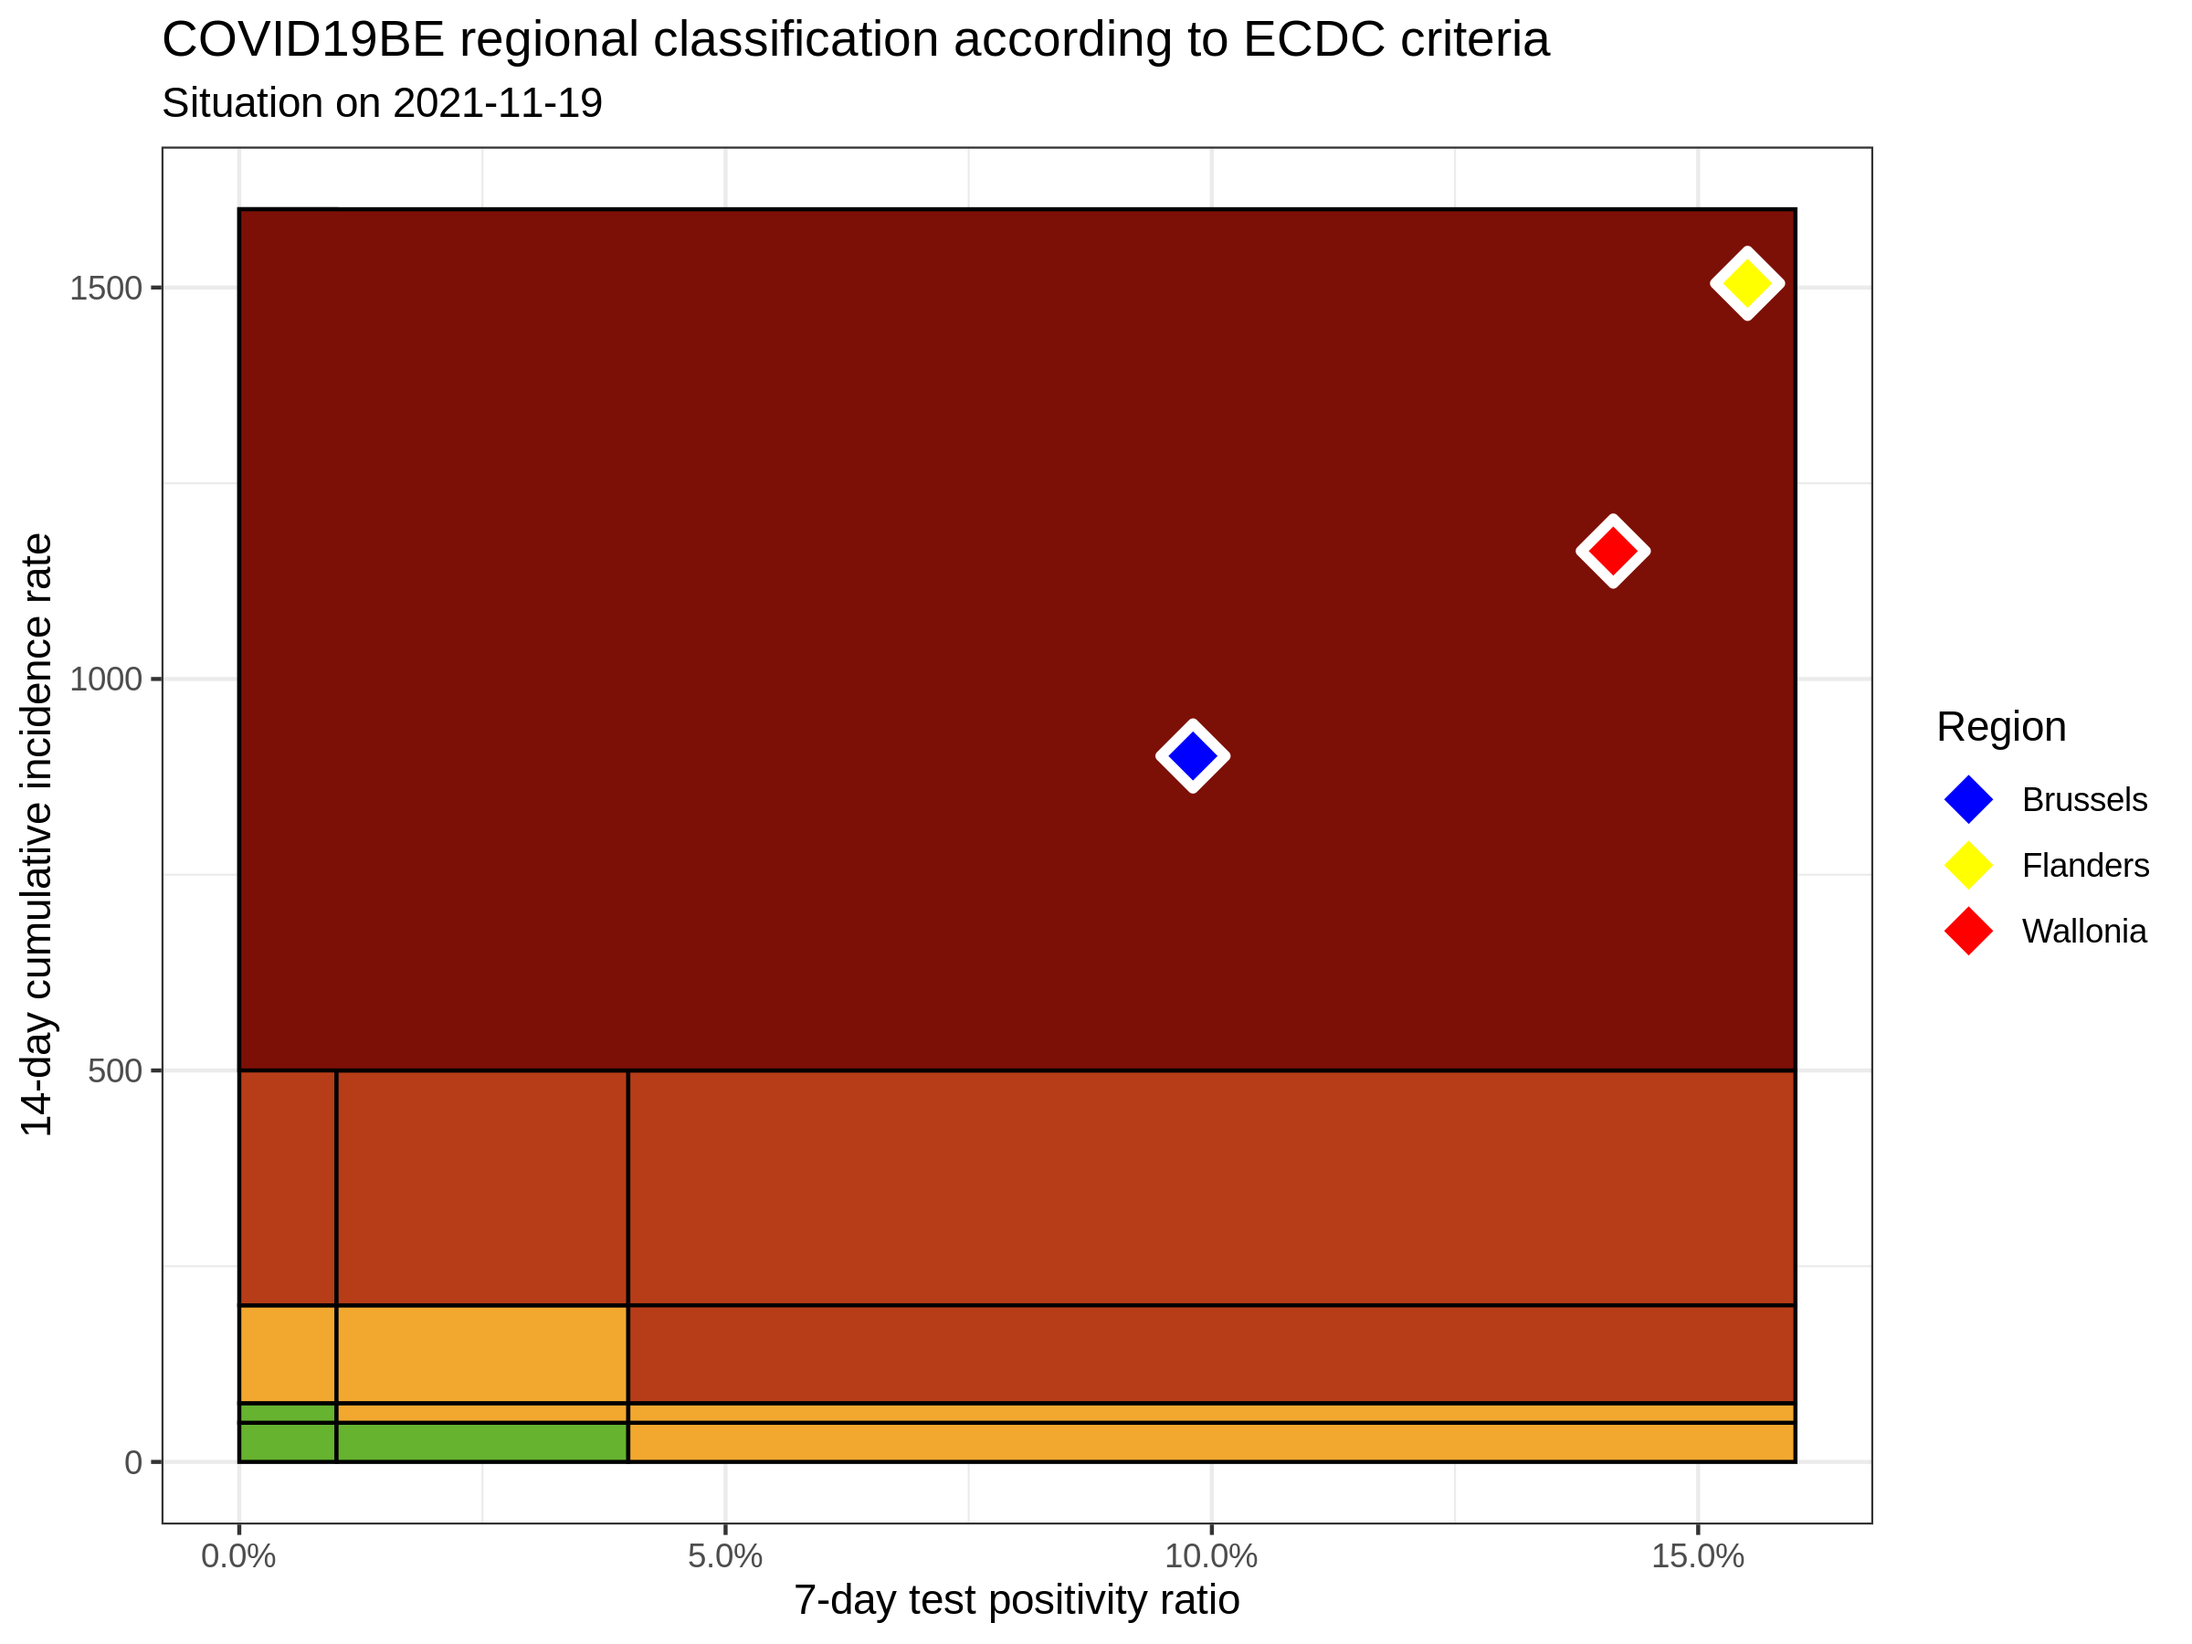
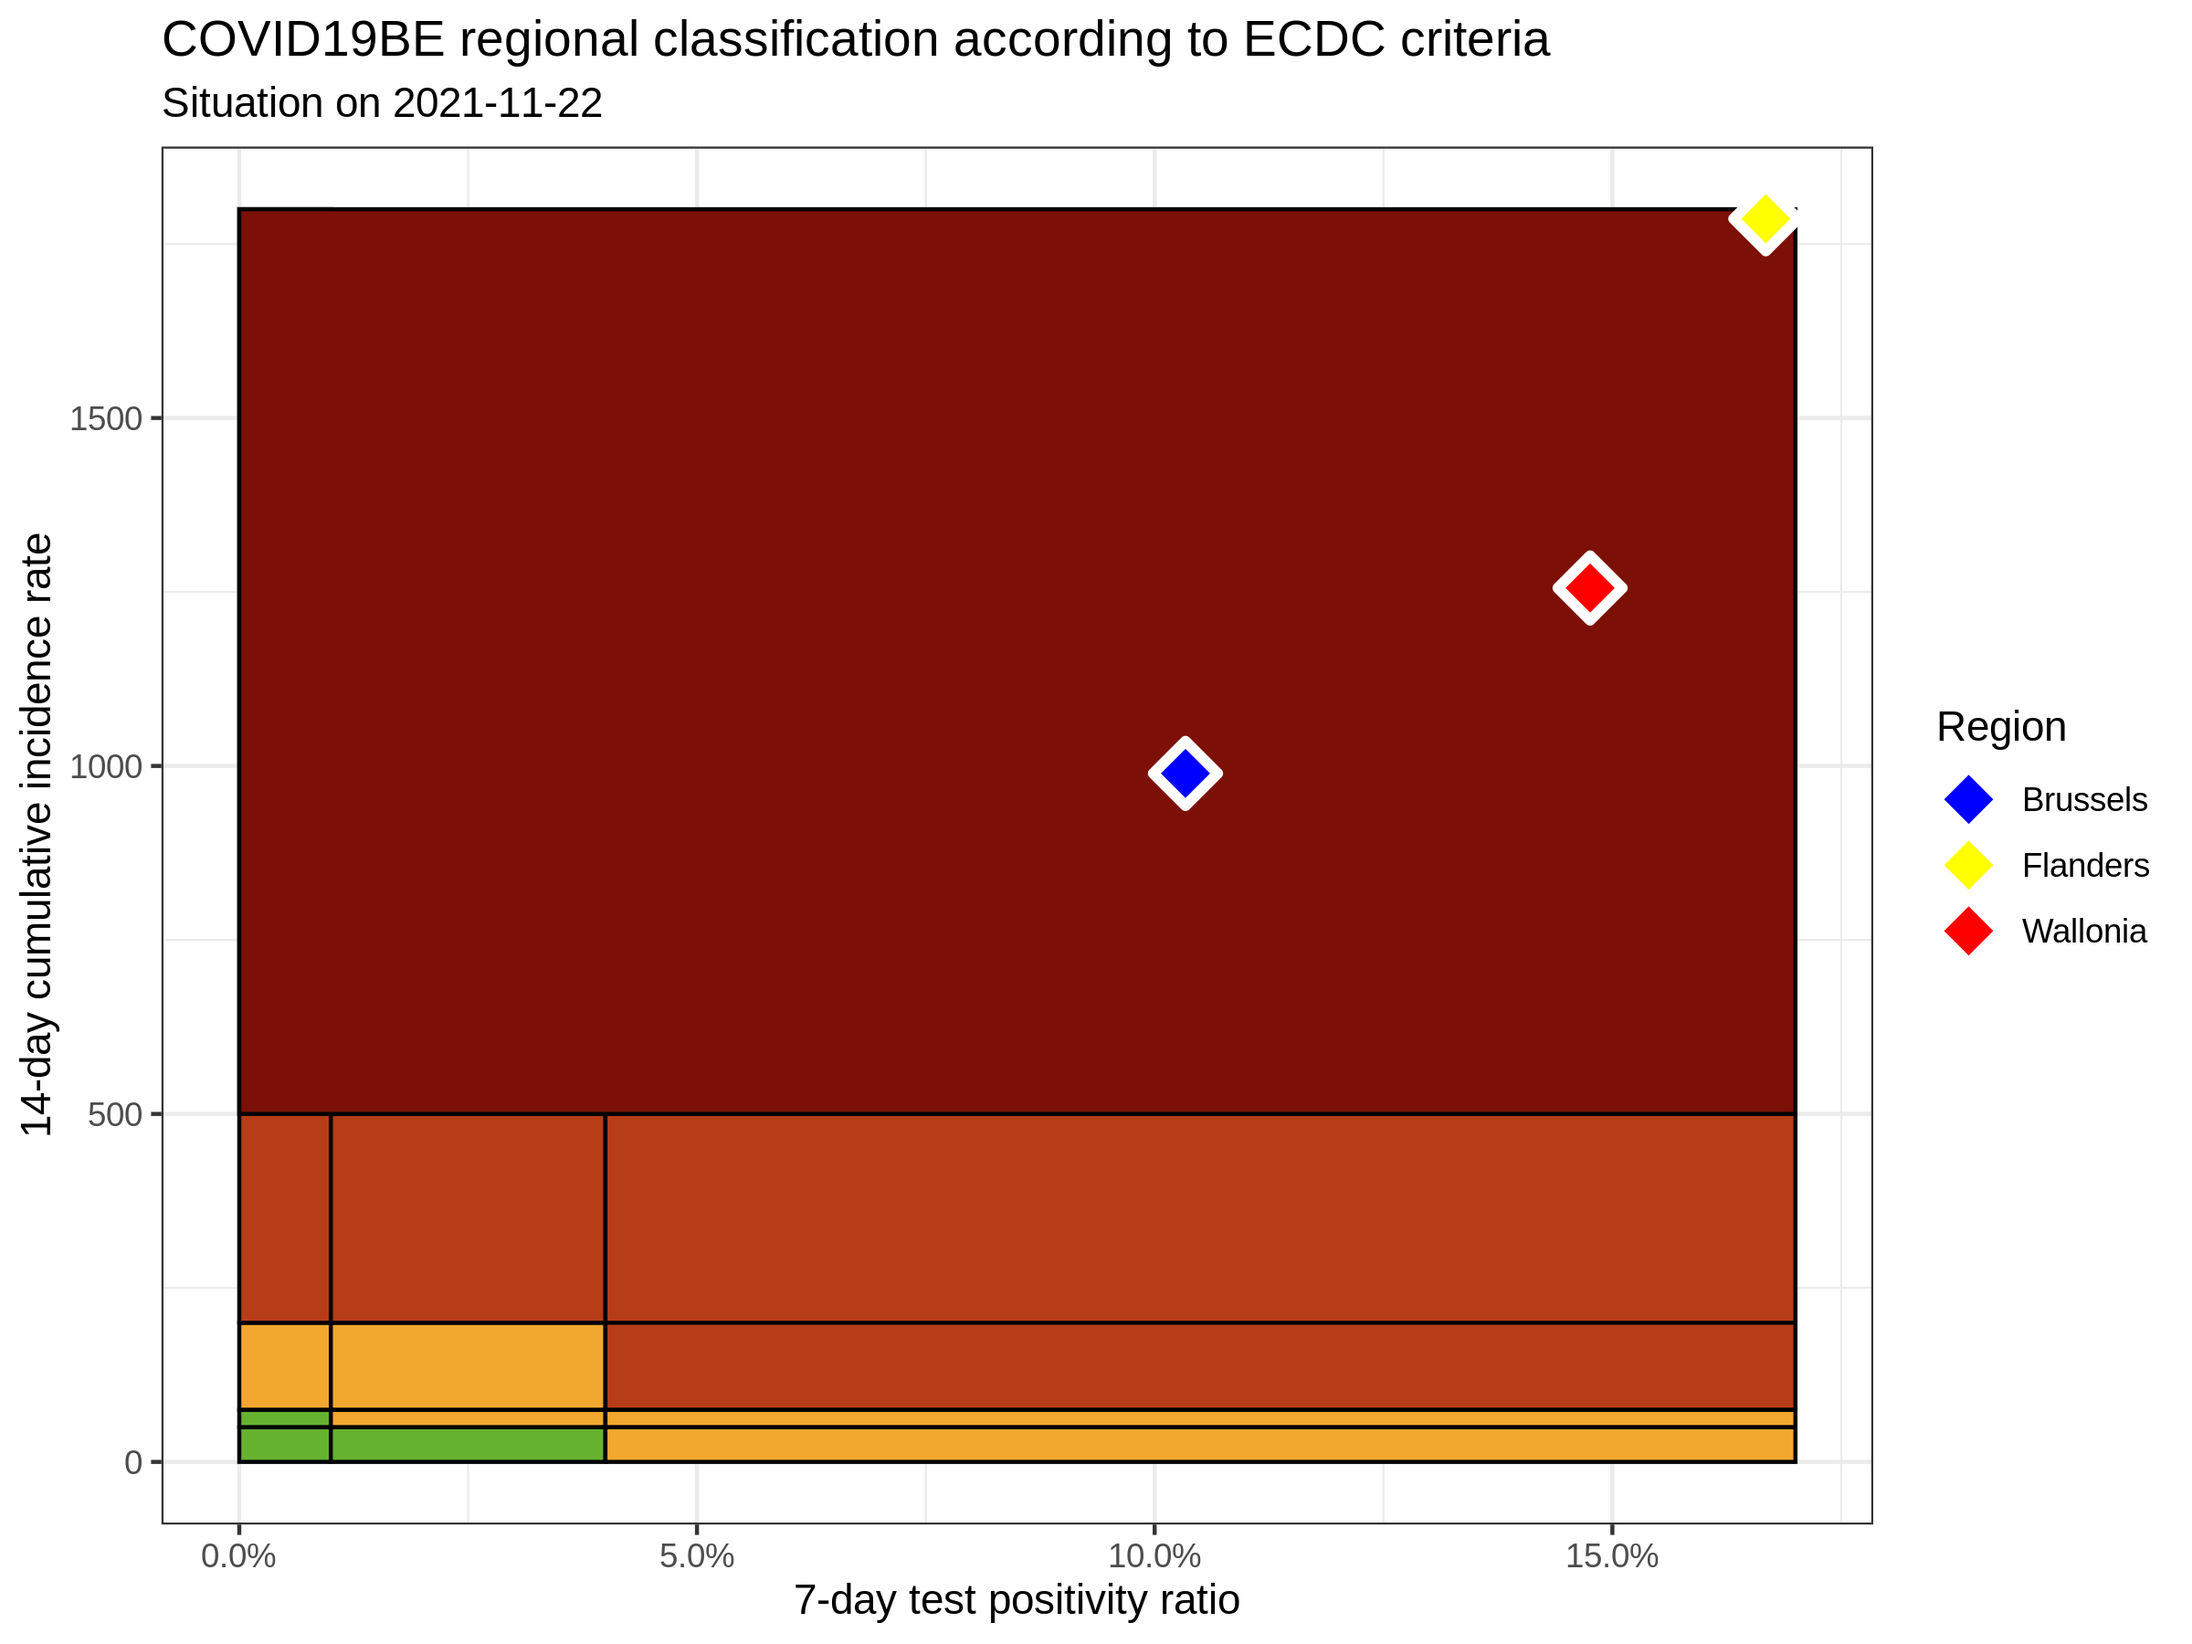
update situation

diff --git a/ecdc-trend/README.md b/ecdc-trend/README.md
@@ -11,9 +11,9 @@
 
 |          |  INC14 |  INC7 |   TST7 | TST\_POS7 | REGION   |     POP | INC14\_RT |       PR7 |        GR |
 | :------- | -----: | ----: | -----: | --------: | :------- | ------: | --------: | --------: | --------: |
-| Brussels |  11000 |  5731 |  63105 |      6188 | Brussels | 1219970 |  901.6615 | 0.0980588 | 0.0876827 |
-| Flanders | 100149 | 55989 | 362465 |     56211 | Flanders | 6653062 | 1505.3069 | 0.1550798 | 0.2678668 |
-| Wallonia |  42442 | 21847 | 158504 |     22392 | Wallonia | 3648206 | 1163.3663 | 0.1412709 | 0.0607915 |
+| Brussels |  12069 |  6734 |  70681 |      7306 | Brussels | 1219970 |  989.2866 | 0.1033658 | 0.2622306 |
+| Flanders | 118844 | 73807 | 450965 |     75205 | Flanders | 6653062 | 1786.3053 | 0.1667646 | 0.6388081 |
+| Wallonia |  45812 | 26652 | 191418 |     28247 | Wallonia | 3648206 | 1255.7405 | 0.1475671 | 0.3910230 |
 
 ### Read more
 
